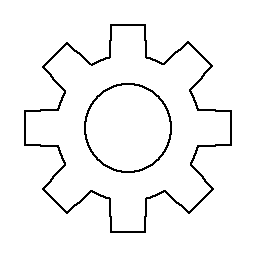
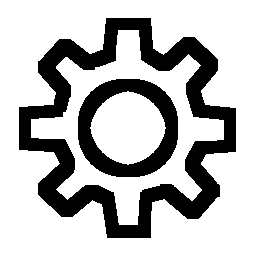
Fairly big changes
Added startup app functionality
Fixed Icons
Added app resizing (still buggy)
Favorite button changes when favoriting an item (still buggy)
added text boxes for news section on main menu.

Changed region(s): [[0.0625, 0.0625, 0.9375, 0.9375]]

diff --git a/newspage.cpp b/newspage.cpp
@@ -9,6 +9,7 @@
 #include <QRegularExpression>
 #include <QDesktopServices>
 #include <QXmlStreamReader>
+#include <QCoreApplication>
 
 NewsPage::NewsPage(QWidget *parent)
     : QWidget(parent)
@@ -25,8 +26,6 @@ NewsPage::NewsPage(QWidget *parent)
     loadGameNames();
 
     fetchNewsForAllGames();
-
-
 }
 
 
@@ -151,8 +150,23 @@ QWidget* NewsPage::createNewsCard(const QString &thumbnailUrl,
 }
 
 
+QString NewsPage::getTopArticleName() {
+    if (!sortedNewsItems.isEmpty())
+        return sortedNewsItems.first().title;
+    return "";
+}
 
+QString NewsPage::getTopArticleText() {
+    if (!sortedNewsItems.isEmpty())
+        return sortedNewsItems.first().contents;
+    return "";
+}
 
+QString NewsPage::getTopArticleThumbnail() {
+    if (!sortedNewsItems.isEmpty())
+        return sortedNewsItems.first().thumbnailUrl;
+    return "";
+}
 
 void NewsPage::addNewsCard(const QString &thumbnailUrl, const QString &title, const QString &description, const QString &source, const QString &articleUrl) {
     QWidget *card = createNewsCard(thumbnailUrl, title, description, source, articleUrl);
@@ -162,7 +176,8 @@ void NewsPage::addNewsCard(const QString &thumbnailUrl, const QString &title, co
 
 void NewsPage::loadGameNames() {
     gameNames.clear();
-    gameLibrary = new GameLibrary("games.db");
+    QString appDir = QCoreApplication::applicationDirPath();
+    gameLibrary = new GameLibrary((appDir + "/games.db").toStdString());
 
     gameNames = gameLibrary->returnNames();
     gameAppIds = gameLibrary->returnSteamAppIds();
@@ -204,7 +219,14 @@ void NewsPage::onNewsReceived(QNetworkReply *reply) {
 
     if (root.contains("appnews")) {
         QJsonObject appnews = root["appnews"].toObject();
+
+        if (!appnews.contains("newsitems") || !appnews["newsitems"].isArray()) {
+            reply->deleteLater();
+            return;
+        }
+
         QJsonArray newsItems = appnews["newsitems"].toArray();
+
 
         for (const QJsonValue &value : newsItems) {
             QJsonObject item = value.toObject();
@@ -215,7 +237,9 @@ void NewsPage::onNewsReceived(QNetworkReply *reply) {
             int timestamp = item["date"].toInt();
             QString date = QDateTime::fromSecsSinceEpoch(timestamp).toString("MMM dd, yyyy");
 
-            contents.remove(QRegularExpression("<[^>]*>"));
+            if (contents.isNull()) contents = "";
+                contents.replace(QRegularExpression("<[^>]*>"), "");
+
             if (contents.length() > 200) {
                 contents = contents.left(197) + "...";
             }
@@ -240,7 +264,6 @@ void NewsPage::onNewsReceived(QNetworkReply *reply) {
 
 
 void NewsPage::sortAndDisplayNews() {
-
     qint64 oneMonthAgoSecs = QDateTime::currentSecsSinceEpoch() - 30*24*60*60; // 30 days
     // within month
     std::vector<NewsItem> recentNews;
@@ -255,12 +278,17 @@ void NewsPage::sortAndDisplayNews() {
               });
     QLayoutItem *layoutItem;
     while ((layoutItem = newsLayout->takeAt(0)) != nullptr) {
-        delete layoutItem->widget();
+        QWidget *w = layoutItem->widget();
+        if (w) w->deleteLater();
         delete layoutItem;
     }
     for (const auto &item : recentNews) {
         addNewsCard(item.thumbnailUrl, item.title, item.contents, item.source, item.url);
     }
+
+    sortedNewsItems.clear();
+    for (const auto &item : recentNews)
+        sortedNewsItems.append(item);
 }
 
 

diff --git a/mainwindow.cpp b/mainwindow.cpp
@@ -25,6 +25,9 @@ MainWindow::MainWindow(QWidget *parent)
     nw = new NewsPage(this);
     nw->hide();
 
+    QString appDir = QCoreApplication::applicationDirPath();
+    std::string settingsPath = (appDir + "/settings.json").toStdString();
+
     sw->setColorSchemes();
     setWindowFlags(Qt::FramelessWindowHint);
     sw->currScreen = QGuiApplication::primaryScreen();
@@ -35,7 +38,7 @@ MainWindow::MainWindow(QWidget *parent)
     sw->windowWidth = 480;
     sw->windowHeight = sw->screenHeight;
 
-    std::ifstream file("settings.json");
+    std::ifstream file(settingsPath);
     if (file.is_open()) {
         file >> sw->j;
         auto& j = sw->j;
@@ -82,7 +85,7 @@ MainWindow::MainWindow(QWidget *parent)
     favgrid->setAlignment(Qt::AlignTop | Qt::AlignLeft);
     favgrid->setSpacing(10);
 
-    gameLibrary = new GameLibrary("games.db");
+    gameLibrary = new GameLibrary((appDir + "/games.db").toStdString());
 
     loadGameLibrary(libgrid);
     loadFavLibrary(favgrid);
@@ -93,11 +96,13 @@ MainWindow::MainWindow(QWidget *parent)
     ui->gameName->setText("");
     ui->gameDesc->setText("");
 
+    setNewsSection();
     setGlobalStyle();
     ui->SettingsButton->setIcon(QIcon(":/res/res/SettingsIcon.png"));
     ui->ImportButton->setIcon(QIcon(":/res/res/ImportIcon.png"));
     ui->MinimizeButton->setIcon(QIcon(":/res/res/MinimizeIcon.png"));
     ui->ExitButton->setIcon(QIcon(":/res/res/XIcon.png"));
+    ui->RemoveGameButton->setIcon(QIcon(":/res/res/XIcon.png"));
 
     connect(ui->MinimizeButton, &QPushButton::clicked, this, &MainWindow::onMinimizeButtonClicked);
     connect(ui->SettingsButton, &QPushButton::clicked, this, &MainWindow::onSettingsButtonClicked);
@@ -143,8 +148,9 @@ void MainWindow::onGameButtonClicked()
         ui->gameDesc->setText(desc);
 
         if (favorited) {
-            //ui->FavGameButton->setChecked(true);
-            //ui->FavGameButton->setIcon("Favorited")
+            ui->FavGameButton->setIcon(QIcon(":/res/res/Favorited.png"));
+        } else {
+            ui->FavGameButton->setIcon(QIcon(":/res/res/NotFavorited.png"));
         }
     }
 }
@@ -207,6 +213,11 @@ void MainWindow::onRemoveButtonClicked() {
 
 void MainWindow::onFavButtonClicked() {
     gameLibrary->toggleFavorite(gameId.toInt());
+    if (favorited) {
+        ui->FavGameButton->setIcon(QIcon(":/res/res/NotFavorited.png"));
+    } else {
+        ui->FavGameButton->setIcon(QIcon(":/res/res/Favorited.png"));
+    }
     loadFavLibrary(favgrid);
 }
 
@@ -307,6 +318,11 @@ void MainWindow::loadFavLibrary(QGridLayout* grid)
             row++;
         }
     }
+}
+
+void MainWindow::setNewsSection() {
+    ui->NewsLabel->setText(nw->getTopArticleName());
+    ui->NewsText->setText(nw->getTopArticleText());
 }
 
 void MainWindow::setGlobalStyle() {

diff --git a/settings.cpp b/settings.cpp
@@ -147,7 +147,8 @@ void Settings::applySettings() {
     j["programWidth"] = ui->ProgramWidthBox->currentData().toInt();
     j["startup"] = ui->StartupBox->currentData().toInt();
 
-    std::ofstream file("settings.json");
+    QString appDir = QCoreApplication::applicationDirPath();
+    std::ofstream file((appDir + "/settings.json").toStdString());
     file << j.dump(4);   // Pretty-printed JSON
 }
 
@@ -232,14 +233,20 @@ void Settings::enableStartup() {
         "Software\\Microsoft\\Windows\\CurrentVersion\\Run",
         0,
         KEY_SET_VALUE,
-        &hKey
-        );
+        &hKey);
 
     if (result == ERROR_SUCCESS) {
-        std::string appPath = QDir::toNativeSeparators(QCoreApplication::applicationFilePath()).toStdString();
-        RegSetValueExA(hKey, "GameLauncher", 0, REG_SZ,
-                       (BYTE*)appPath.c_str(),
-                       appPath.size() + 1);
+        std::string appPath =
+            "\"" + QDir::toNativeSeparators(QCoreApplication::applicationFilePath()).toStdString() + "\"";
+
+        RegSetValueExA(
+            hKey,
+            "GameLauncher",
+            0,
+            REG_SZ,
+            reinterpret_cast<const BYTE*>(appPath.c_str()),
+            static_cast<DWORD>(appPath.size() + 1));
+
         RegCloseKey(hKey);
     }
 }

diff --git a/steamfetcher.cpp b/steamfetcher.cpp
@@ -9,13 +9,18 @@
 #include <QEventLoop>
 #include <QFile>
 #include <QDir>
+#include <QCoreApplication>
 
 SteamFetcher::SteamFetcher() {}
 
 GameMetadata SteamFetcher::fetchBySteamId(int steamAppId)
 {
     GameMetadata result;
-    QDir().mkpath("covers");
+
+
+    QString appDir = QCoreApplication::applicationDirPath();
+    QString coverDir = appDir + "/covers";
+    QDir().mkpath(coverDir);
 
     QNetworkAccessManager manager;
     QString url = QString("https://store.steampowered.com/api/appdetails?appids=%1").arg(steamAppId);
@@ -43,7 +48,7 @@ GameMetadata SteamFetcher::fetchBySteamId(int steamAppId)
 
             if (imgReply->error() == QNetworkReply::NoError) {
                 QString safeName = QString::fromStdString(result.name).replace(" ", "_");
-                QString savePath = QString("covers/%1.jpg").arg(safeName);
+                QString savePath = QString(coverDir + "/%1.jpg").arg(safeName);
                 QFile file(savePath);
                 if (file.open(QIODevice::WriteOnly)) {
                     file.write(imgReply->readAll());

diff --git a/newspage.h b/newspage.h
@@ -41,6 +41,9 @@ public:
                     const QString &description,
                     const QString &source,
                     const QString &articleUrl);
+    QString getTopArticleName();
+    QString getTopArticleText();
+    QString getTopArticleThumbnail();
     ~NewsPage();
 
 private:
@@ -60,6 +63,8 @@ private:
     GameLibrary* gameLibrary;
     QNetworkAccessManager* networkManager;
     QList<NewsItem> allNewsItems;
+    QList<NewsItem> sortedNewsItems;
+
 
 
 

diff --git a/mainwindow.h b/mainwindow.h
@@ -55,6 +55,7 @@ private:
     void clearGridLayout(QGridLayout* grid);
     void loadGameLibrary(QGridLayout* grid);
     void loadFavLibrary(QGridLayout* grid);
+    void setNewsSection();
     QGridLayout* libgrid; // grid to display all games
     QGridLayout* favgrid; // grid to display games
 };
